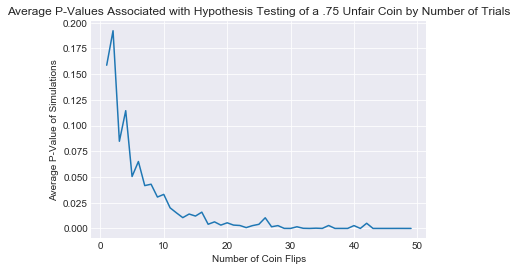
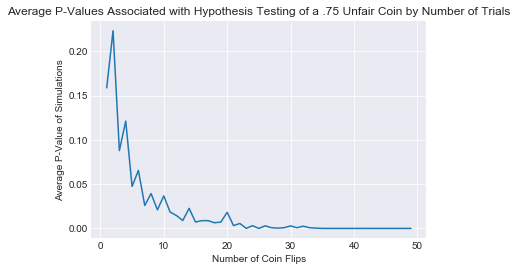
fix image filenames

diff --git a/README.md b/README.md
@@ -50,7 +50,7 @@ Different scenarios call for scientists to minimize one type of error over anoth
 
 * $H_{1} : defendant \neq innocent$
 
-<img src="./jury.jpeg">
+<img src="./images/jury.jpeg">
 
 Hopefully you said a Type 1 error! A Type 1 error would mean that you would send someone to jail when they were truly not guilty! In other words, the jury has rejected the null hypothesis that the defendant is innocent, even though he has not committed any crime. Of course, we would also not want to have a Type 2 error because this would mean that someone actually has committed a crime, and the jury is letting them get away with it.
 
@@ -61,7 +61,7 @@ Let's take a look at an example of a medical scenario. A patient with symptoms o
 * $H_{1} : patient \neq healthy$
 
 
-<img src="./doctor.jpg" style="width: 280px;"/>
+<img src="./images/doctor.jpg" style="width: 280px;"/>
 
 Hopefully you said a Type 2 error! A Type 2 error would mean that the patient actually has a brain tumor, but the doctor claims there is nothing wrong with them. In other words, the null hypothesis is that the person has no brain tumor, and this hypothesis fails to be rejected, meaning the person is diagnosed as healthy when in actuality, they are far from it.
 
@@ -88,7 +88,7 @@ coin1
 
 
 
-    14
+    15
 
 
 
@@ -128,7 +128,7 @@ z
 
 
 
-    8.0
+    10.0
 
 
 
@@ -141,7 +141,7 @@ z
 
 
 
-    8.0
+    10.0
 
 
 
@@ -160,13 +160,13 @@ st.norm.sf(np.abs(z))
 
 
 
-    6.22096057427174e-16
+    7.61985302416047e-24
 
 
 
 This is an absolutely tiny p-value, meaning that you can reject the null hypothesis *this coin is fair* and conclude that the coin is unfair!
 
-Here is a demonstration of how the average 
+Here is a demonstration of how the average p-values change as the size of the sample increases.
 
 
 ```python
